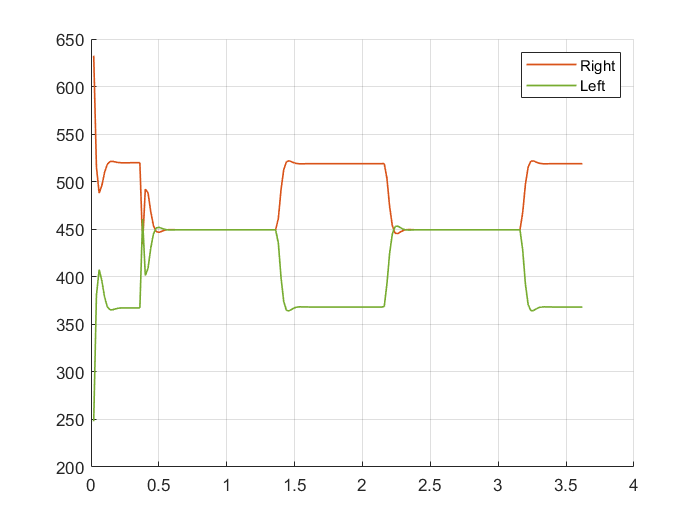
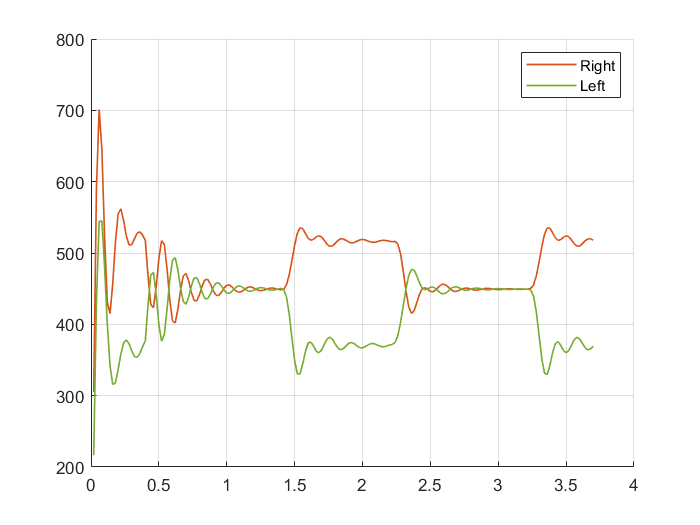
Apply PID + sensor response

diff --git a/find_R.m b/find_R.m
@@ -12,8 +12,8 @@ function [x_R, y_R, phi_R, is_exist] = find_R(x_sensor, y_sensor, x_control, y_c
     if x_control >= 1000
         % Right arc
         sol = solve(s_eqn, (x-1000)^2 + y^2 == 500^2);
-        x_R = sol.x;
-        y_R = sol.y;
+        x_R = double(sol.x);
+        y_R = double(sol.y);
         d = calc_distances([x_R y_R], [x_control, y_control]);
         [row, ~] = find(d == min(d));
         x_R = x_R(row);
@@ -21,8 +21,8 @@ function [x_R, y_R, phi_R, is_exist] = find_R(x_sensor, y_sensor, x_control, y_c
     elseif x_control <= -1000
         % Left arc
         sol = solve(s_eqn, (x+1000)^2 + y^2 == 500^2);
-        x_R = sol.x;
-        y_R = sol.y;
+        x_R = double(sol.x);
+        y_R = double(sol.y);
         d = calc_distances([x_R y_R], [x_control, y_control]);
         [row, ~] = find(d == min(d));
         x_R = x_R(row);
@@ -30,12 +30,12 @@ function [x_R, y_R, phi_R, is_exist] = find_R(x_sensor, y_sensor, x_control, y_c
     else
         if y_control > 0
             sol = solve(s_eqn, y == 500);
-            x_R = sol.x;
-            y_R = sol.y;
+            x_R = double(sol.x);
+            y_R = double(sol.y);
         else
             sol = solve(s_eqn, y == -500);
-            x_R = sol.x;
-            y_R = sol.y;
+            x_R = double(sol.x);
+            y_R = double(sol.y);
         end
     end
     

diff --git a/apply_PID.m b/apply_PID.m
@@ -1,0 +1,13 @@
+function [sol, err2, int] = apply_PID(kp, ki, kd, err2, int, v_ref, v, t_samp, wheel_radius)
+    n_ref = v2rpm(v_ref, wheel_radius);
+    n = v2rpm(v, wheel_radius);
+    err1 = err2;
+    err2 = n_ref - n;
+    int = int + err2;
+    PWM = kp*err2 + ki*int+ kd*(err2-err1)/t_samp;
+    PWM = double(clip(PWM, 0, 100));
+    sol = ode45(@(t, N) motorPlant(t, N, PWM), [0 t_samp], n);
+    [t, N] = ode45(@(t, N) motorPlant(t, N, PWM), [0 t_samp], n);
+    disp([double(n_ref), double(deval(sol, t_samp))]);
+end
+

diff --git a/compute_error.m b/compute_error.m
@@ -1,6 +1,7 @@
 function [e1, e2, e3] = compute_error(x_control, y_control, phi, x_R, y_R, phi_R)
     e1 = (x_R - x_control)*cos(phi) + (y_R - y_control)*sin(phi);
     e2 = -(x_R - x_control)*sin(phi) + (y_R - y_control)*cos(phi);
+    e2 = 0.8688*e2 + 0.0054;
     e3 = phi_R - phi;
 end
 

diff --git a/motorPlant.m b/motorPlant.m
@@ -1,6 +1,3 @@
-function dN=motorPlant(t,N)
-    global PWM nRef 
-%     dN = -23.12*N+329.6*PWM;
-%     dN = -7.587*N + 18.24*PWM;
-    dN = -379.4*N + 912*PWM;
+function dN=motorPlant(t, N, PWM)
+    dN = -23.12*N+329.6*PWM;
  end

diff --git a/clip.m b/clip.m
@@ -1,0 +1,8 @@
+function value = clip(value, min_val, max_val)
+    if(value > max_val)
+        value = max_val;
+    elseif (value < min_val)
+        value = min_val;
+    end
+end
+

diff --git a/vomega2lr.m b/vomega2lr.m
@@ -1,0 +1,5 @@
+function [v_l, v_r] = vomega2lr(v, omega, wheel_distance)
+    v_r = (2*v + omega*wheel_distance) / 2;
+    v_l = 2*v - v_r;
+end
+

diff --git a/lr2vomega.m b/lr2vomega.m
@@ -1,0 +1,5 @@
+function [v, omega] = lr2vomega(v_l, v_r, wheel_distance)
+    v = (v_l + v_r)/2;
+    omega = (v_r - v_l)/wheel_distance;
+end
+

diff --git a/v2rpm.m b/v2rpm.m
@@ -1,0 +1,5 @@
+function rpm = v2rpm(v, wheel_radius)
+    omega = v / wheel_radius;
+    rpm = omega * 60 / (2*pi);
+end
+

diff --git a/rpm2v.m b/rpm2v.m
@@ -1,0 +1,4 @@
+function v = rpm2v(rpm, wheel_radius)
+    v = rpm * 2 * pi / 60 * wheel_radius;
+end
+
